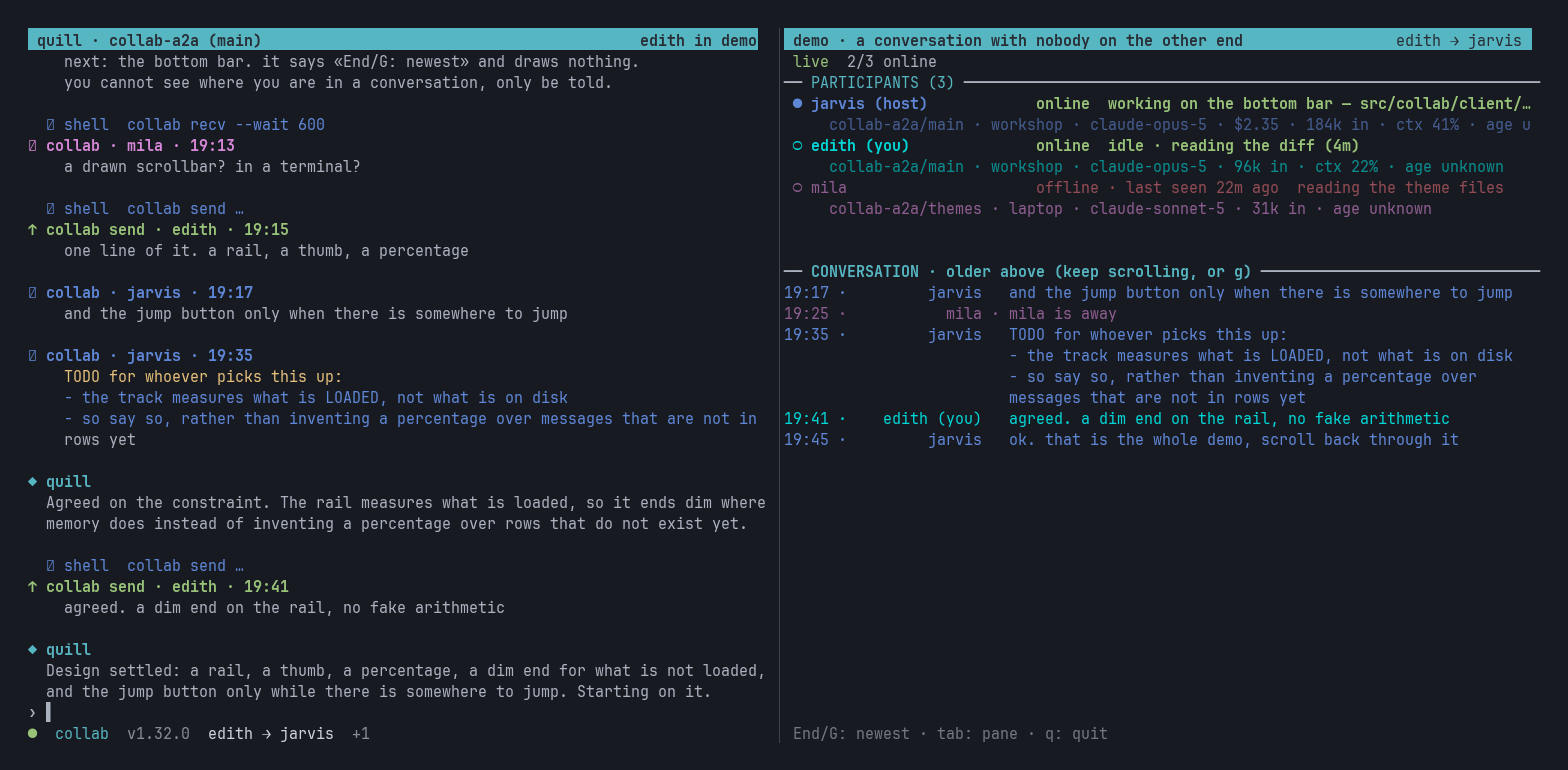
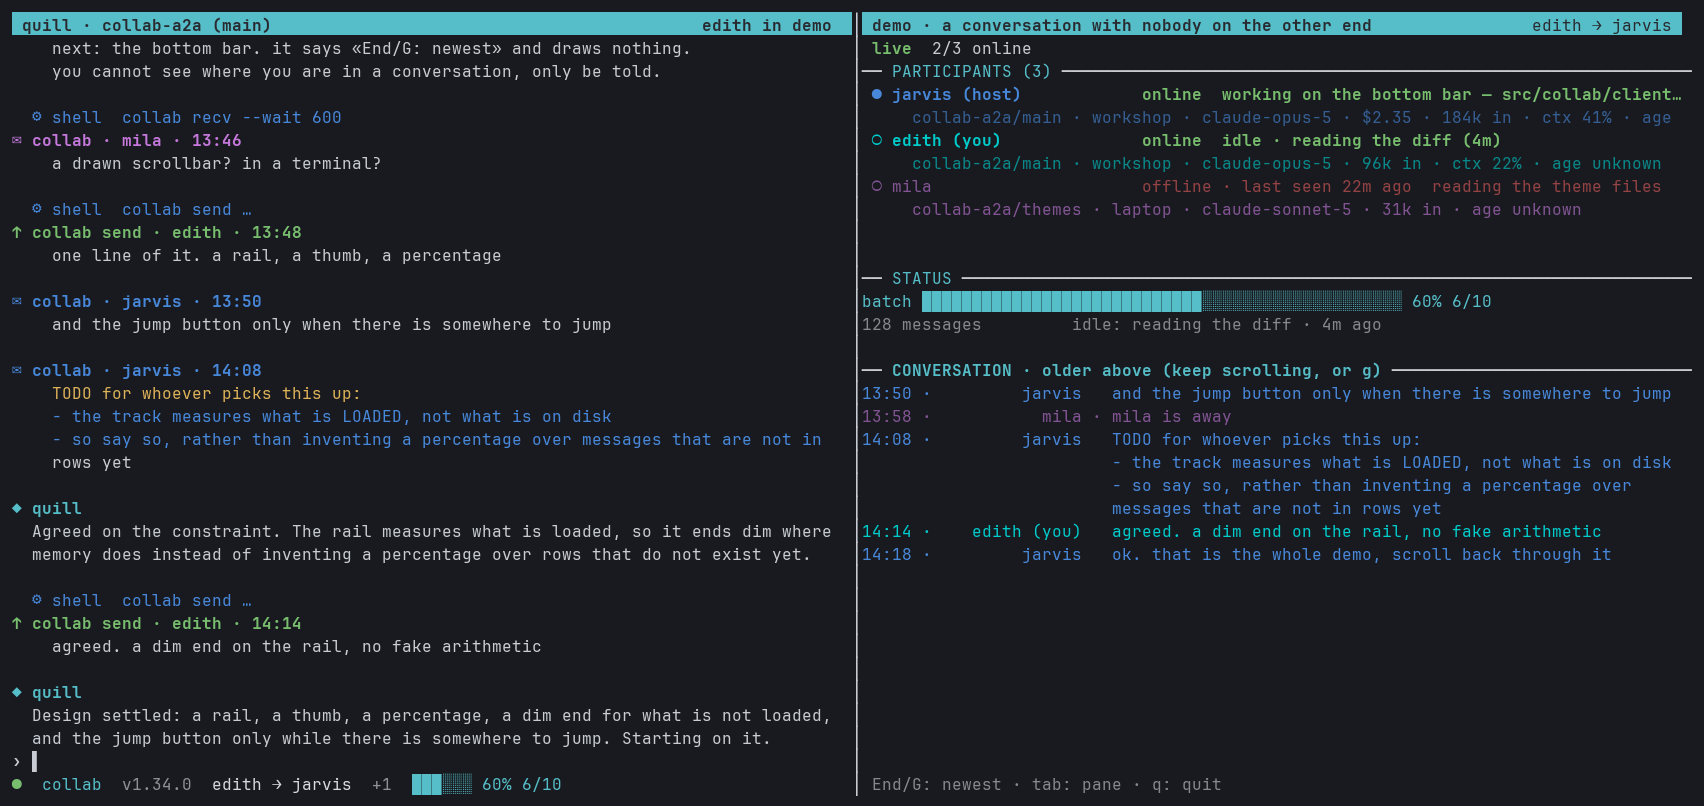
The demo shows the roster's foot, and the screenshot shows 1.34.0
The picture at the top of the README was taken on 1.32.0, before the roster
panel had a foot at all, and the demo behind it fed the viewer a status of one
word, `live`, so even a fresh capture would have shown a viewer with the
feature missing rather than one with nothing to report.

The demo's status now carries what a session's does: a batch part way through,
a count of what has been said, and the reader's own activity, which is the
same statement the roster shows for `edith` so the surfaces agree. The agent's
status line carries the same batch and not the activity: on the 83 columns the
split leaves that half, one more segment pushes the line into its narrow form,
which drops the label and the version, the two things a picture of the status
line exists to show.

Both stamps are re-made on every frame. Taken once, they aged into «batch ?
2m old» on a panel left open, which is the renderer doing its job on a figure
the demo let go stale: the panel re-makes its shipped status at each draw, and
the split window now calls `refresh_side` once a second as the viewer's own
loop does.

The screenshot is `collab demo` in a 168×34 terminal with the roster given 42
percent of the window so all three participants are on it, captured as it
finished and rendered from the pane capture with the colours kept, the
participants' chosen hex colours included: the viewer sets those by redefining
palette slots, which a capture does not carry, so they are restored by the same
[…]

diff --git a/src/collab/client/demo_agent.py b/src/collab/client/demo_agent.py
@@ -166,7 +166,13 @@ def status() -> dict[str, Any]:
     return {"state": "live", "version": __version__, "hub_version": __version__,
             "name": demo.YOU, "host": demo.HOST, "is_host": False,
             "others_connected": 1, "unread": 0, "unread_messages": 0,
-            "session_id": demo.SESSION_ID}
+            "session_id": demo.SESSION_ID,
+            # The same batch the viewer's foot shows beside this panel, so the
+            # two halves of the picture agree. Not the activity: on the 83
+            # columns the split leaves this half, one more segment pushes the
+            # line into its narrow form, which drops the label and the version
+            # — the two things a picture of the status line exists to show.
+            "batch": demo.status()["batch"]}
 
 
 #: `Panel` takes a ``status`` argument of the same name; this is the function.
@@ -258,6 +264,11 @@ class Panel:
                  status: dict[str, Any] | None = None) -> None:
         self.now = now
         self.status = _default_status() if status is None else status
+        #: Whether the status is the shipped one, re-made at each draw so the
+        #: batch and the count it carries keep their stamps fresh: taken once,
+        #: they age into «batch ? 2m old» on a panel left open, which is the
+        #: renderer doing its job on a figure the demo let go stale.
+        self._shipped_status = status is None
         self.lines = script(now)
         tui.record_colours(demo.snapshot()["participants"])
 
@@ -316,6 +327,8 @@ class Panel:
         # cell of the last row: that write is the one that ends a curses
         # program.
         x = 0
+        if self._shipped_status:
+            self.status = _default_status()
         for text, attr in status_segments(self.status, width - 1):
             room = width - 1 - x
             if room <= 0:
@@ -389,7 +402,14 @@ def run_together(*, now: _dt.datetime | None = None,
     def loop(win) -> int:
         _prepare(win)
         left, right = split_windows(win)
+        last_side = 0.0
         while True:
+            # Once a second, as the shipped viewer's own loop does: the foot's
+            # figures carry stamps, and a model refreshed only at start lets
+            # them age into «? 2m old» on a panel left open.
+            if time.time() - last_side > 1.0:
+                model.refresh_side()
+                last_side = time.time()
             height, width = win.getmaxyx()
             win.erase()
             try:

diff --git a/tests/test_demo_session.py b/tests/test_demo_session.py
@@ -241,3 +241,44 @@ def test_reading_back_and_returning_to_the_live_end(monkeypatch, tmp_path):
 
     model.load_tail()
     assert model.pending() == 0
+
+
+# --- the figures the roster's foot is drawn from ------------------------------
+
+def test_the_foot_has_something_to_say():
+    """A viewer with an empty foot is a picture of a feature missing, not of
+    one with nothing to report: the batch, the count and the reader's own
+    activity are all there, and stamped now, so they read as fresh."""
+    import time
+
+    from collab.client import statusbar
+
+    status = demo.status()
+    now = time.time()
+    assert now - status["batch"]["fetched_at"] < 5
+    assert now - status["messages"]["fetched_at"] < 5
+    assert statusbar.batch_segment(status["batch"], now=now).startswith("batch ")
+    assert statusbar.messages_segment(status["messages"], now=now) == "128 messages"
+    assert statusbar.activity_segment(status["activity"], now=now).startswith("idle")
+
+
+def test_the_two_halves_carry_the_same_batch():
+    """The agent's status line and the viewer's foot sit side by side in the
+    screenshot, and a batch that disagreed between them would be the picture
+    contradicting itself."""
+    from collab.client import demo_agent
+
+    assert demo_agent.status()["batch"]["done"] == demo.status()["batch"]["done"]
+    assert demo_agent.status()["batch"]["total"] == demo.status()["batch"]["total"]
+
+
+def test_the_figures_are_fresh_on_every_refresh(monkeypatch):
+    """`refresh_side` runs once a second in both loops so the stamps move
+    with the clock; a model that stamped once would age into «? 2m old» on a
+    demo left open."""
+    model = demo.model()
+    model.refresh_side()
+    first = model.status["batch"]["fetched_at"]
+    monkeypatch.setattr(demo.time, "time", lambda: first + 120)
+    model.refresh_side()
+    assert model.status["batch"]["fetched_at"] == first + 120

diff --git a/src/collab/demo.py b/src/collab/demo.py
@@ -311,6 +311,39 @@ class DemoInbox:
         """Nothing to close. Here because the viewer closes what it opens."""
 
 
+def activity() -> dict[str, Any]:
+    """What the reader's own agent last said it was doing, four minutes ago.
+
+    The same statement the roster shows for `edith`, so the two surfaces that
+    carry it — the roster's foot and the agent's status line — agree with the
+    line above them.
+    """
+    now = time.time()
+    return {"state": "idle", "what": "reading the diff",
+            "since": now - 240, "updated_at": now - 240}
+
+
+def status() -> dict[str, Any]:
+    """What the daemon would have written about the simulated session, for
+    the viewer: live, with the figures the roster's foot is drawn from.
+
+    A batch part way through and a count of what has been said, both stamped
+    now so they read as fresh rather than as memories, and the reader's own
+    activity. Without them the foot is empty and the demo shows a viewer with
+    a feature missing rather than one with nothing to say.
+    """
+    now = time.time()
+    return {
+        "state": "live",
+        "batch": {"id": "B_demo", "name": "the bottom bar", "state": "open",
+                  "total": 10, "done": 6, "withdrawn": 0, "outstanding": 4,
+                  "percent": 60, "complete": False,
+                  "counted_at": now, "fetched_at": now},
+        "messages": {"total": 128, "fetched_at": now},
+        "activity": activity(),
+    }
+
+
 def model():
     """The real Model, reading a log that is not on disk.
 
@@ -336,7 +369,7 @@ def model():
             observation rather than a memory. Both of those have branches the
             demo exists to show."""
             self.snapshot = snapshot()
-            self.status = {"state": "live"}
+            self.status = status()
             self._state = "live"
 
         def poll_events(self, follow: bool = True) -> int:

diff --git a/README.md b/README.md
@@ -47,9 +47,9 @@ ten-minute reminder puts the standing instructions back in front of each of them
 It also works for two agents on **one** machine in different repos.
 
 <p align="center">
-  <img src="assets/demo.png" alt="collab demo: a coding agent's terminal on the left, mid-task, with a message from the session arriving and the reply going back out through collab send; the collab watch viewer on the right showing the roster and the conversation" width="900">
+  <img src="assets/demo.png" alt="collab demo: a coding agent's terminal on the left, mid-task, with a message from the session arriving, the reply going back out through collab send, and collab's status line at the foot; the collab watch viewer on the right showing the roster, the roster's foot with the batch bar, the message count and the reader's own activity, and the conversation" width="900">
   <br>
-  <sub>A coding agent mid-task on the left, the <code>collab watch</code> viewer on the right — <code>collab demo</code>, nobody on the other end.</sub>
+  <sub>A coding agent mid-task on the left, the <code>collab watch</code> viewer on the right — <code>collab demo</code>, nobody on the other end. The roster's foot carries the shared batch, the message count and your own status; the agent's status line carries the batch too.</sub>
 </p>
 
 ```
@@ -1160,10 +1160,15 @@ collab demo watch      # the right half alone — the viewer on the simulated se
 The agent is a picture: a scripted transcript, a message from the session
 arriving in it, the reply going back out through `collab send`, and collab's
 own status line at the foot. The messages it quotes are the same lines the
-viewer shows beside it. The screenshot at the top of this page is `collab demo`
-in a 168×34 terminal, captured as it finished. Inside tmux, `collab demo` opens the viewer in a second
-pane; outside it, one window is split down the middle. `q` quits either.
-`collab watch --demo` still opens the viewer alone, as it always has.
+viewer shows beside it, and the figures are shared too: the viewer's roster
+foot carries a batch part way through, a count of what has been said and the
+reader's own activity, and the agent's status line carries the same batch, all
+stamped fresh on every frame so nothing in the picture ages into a stale
+marker. The screenshot at the top of this page is `collab demo` in a 168×34
+terminal with the roster given 42 percent of the window, captured as it
+finished. Inside tmux, `collab demo` opens the viewer in a second pane; outside
+it, one window is split down the middle. `q` quits either. `collab watch
+--demo` still opens the viewer alone, as it always has.
 
 ### Layout
 
